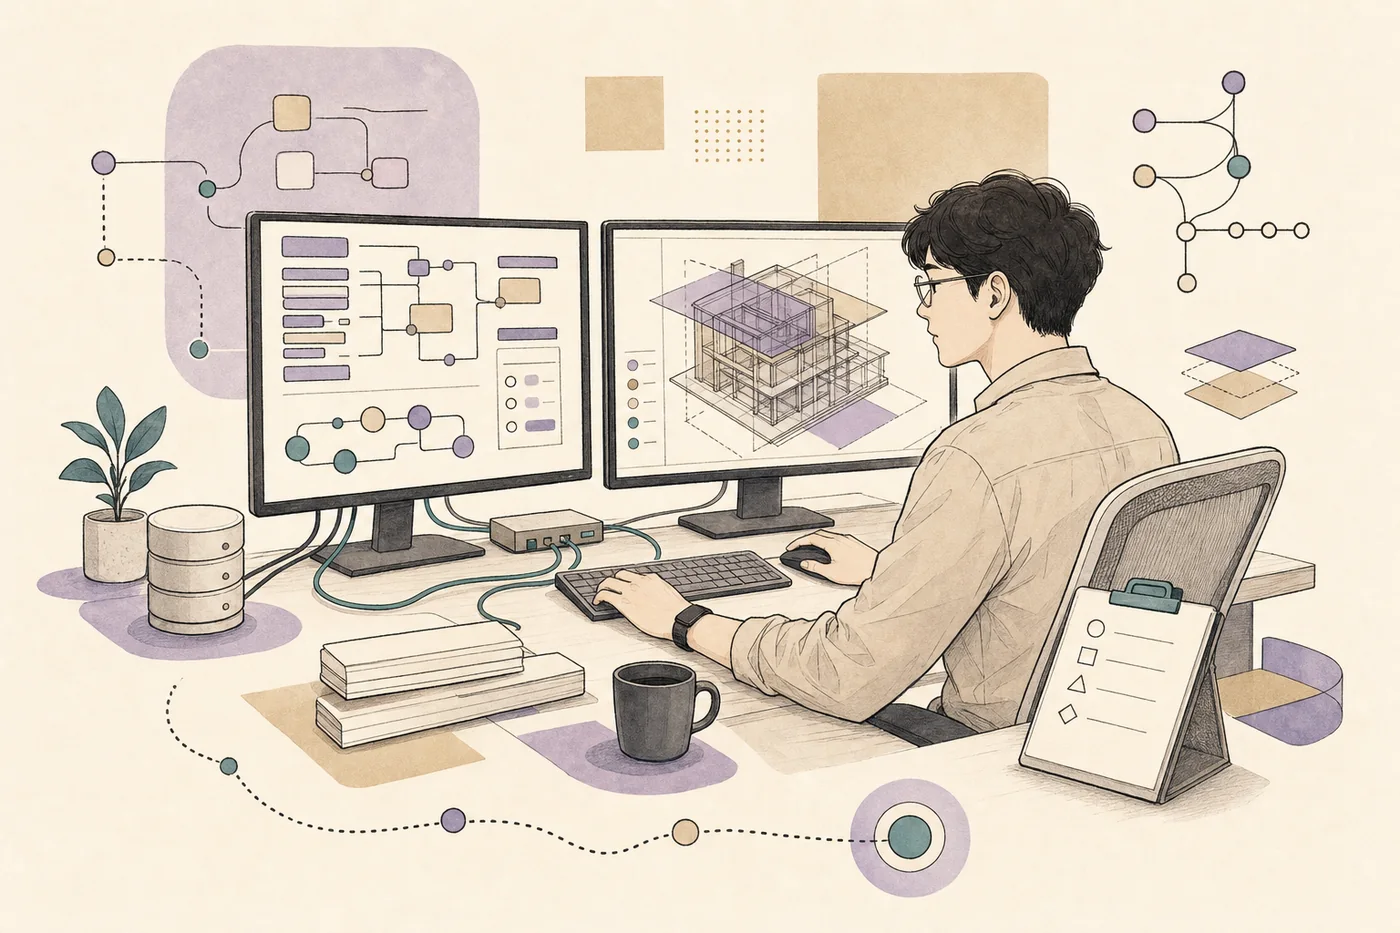
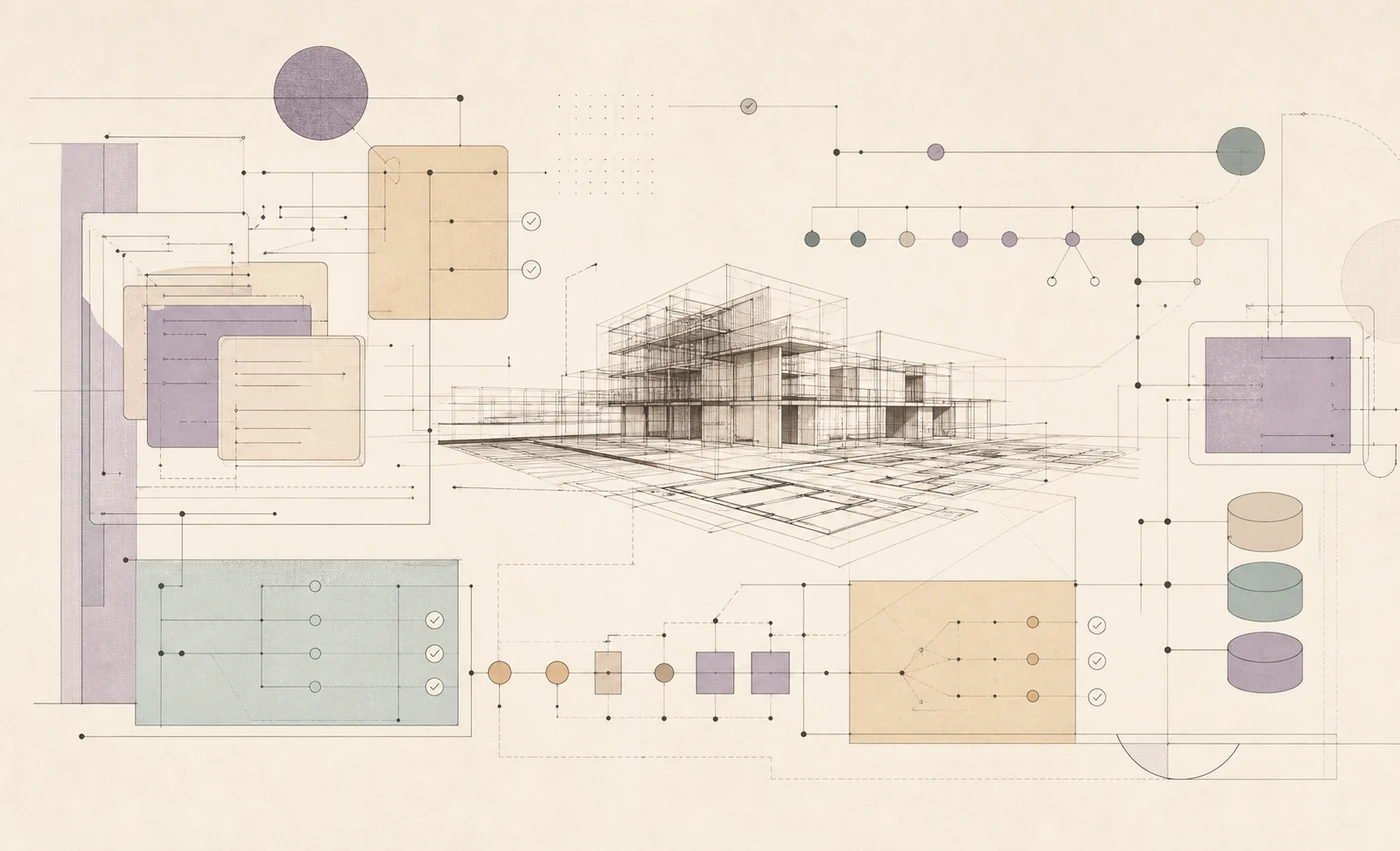
Replace cringe hero with abstract systems image

diff --git a/src/components/PortfolioDoodle.tsx b/src/components/PortfolioDoodle.tsx
@@ -5,7 +5,7 @@ export function PortfolioDoodle() {
       src="/assets/portfolio-hero-gpt.webp"
       alt="운영 웹, API 흐름, 3D/BIM 뷰어를 다루는 개발자 일러스트"
       width="1400"
-      height="933"
+      height="851"
       loading="eager"
       decoding="async"
       fetchPriority="high"

diff --git a/src/styles.css b/src/styles.css
@@ -158,7 +158,7 @@ main[data-app="loop-dog-lab"]::before {
   margin: clamp(16px, 3.2vw, 42px) auto 0;
 }
 .portfolio-generated-image {
-  aspect-ratio: 1400 / 933;
+  aspect-ratio: 1400 / 851;
   object-fit: contain;
   border-radius: 12px;
   filter: drop-shadow(0 20px 34px rgba(96, 66, 63, 0.14));

diff --git a/DESIGN.md b/DESIGN.md
@@ -25,7 +25,7 @@ The user rejected the dark Magic UI pass because it was not readable. The approv
 - readable Pretendard typography;
 - dark brown ink color;
 - soft lavender/sand accent palette;
-- large GPT-generated hero illustration at `public/assets/portfolio-hero-gpt.webp`;
+- large GPT-generated abstract systems/BIM blueprint hero at `public/assets/portfolio-hero-gpt.webp`;
 - rounded lavender intro card;
 - simple uppercase nav;
 - generous spacing and low visual noise.
@@ -37,7 +37,7 @@ Reference traits to preserve:
 - minimal top navigation with round pills;
 - cream/off-white surfaces;
 - thick brown outlines on key cards;
-- polished editorial illustration, not particle/aurora/glow effects.
+- polished editorial abstract systems illustration, not people, mascots, particle/aurora/glow effects, or developer-at-laptop clichés.
 
 ## Avoid
 
@@ -54,7 +54,7 @@ Reference traits to preserve:
 
 1. Top nav with USY mark, centered links, small rounded action pills.
 2. Hero split:
-   - left: GPT-generated developer/workflow/BIM hero illustration;
+   - left: GPT-generated no-person systems/workflow/BIM blueprint hero illustration;
    - right: lavender introduction card with resume-grounded copy.
 3. Four source-grounded stats.
 4. Four capability cards with a selected detail panel.

diff --git a/VERIFY.md b/VERIFY.md
@@ -46,9 +46,10 @@ First screen should read as:
 - Pretendard Korean typography that is readable at first glance;
 - deeper operational copy, not sentimental warmth/어린왕자-style prose;
 - warm cream paper, brown ink, lavender/sand accents;
-- large GPT-generated portfolio hero image at `public/assets/portfolio-hero-gpt.webp`;
+- large GPT-generated abstract systems/BIM blueprint hero image at `public/assets/portfolio-hero-gpt.webp`;
 - strong Korean full-stack developer introduction;
 - no dark particle/glow-heavy Magic UI clutter;
 - no mascot-led identity;
+- no cringe developer-at-laptop character illustration;
 - no public design-process phrases;
 - no private resume data.

diff --git a/README.md b/README.md
@@ -35,7 +35,7 @@ The current version is a clean readable illustrated portfolio:
 - warm paper background;
 - dark brown ink;
 - lavender/sand accents;
-- GPT-generated hero illustration stored at `public/assets/portfolio-hero-gpt.webp`;
+- GPT-generated abstract systems/BIM blueprint hero illustration stored at `public/assets/portfolio-hero-gpt.webp`;
 - thick outlined rounded intro card;
 - simple uppercase nav and round pills;
 - generous spacing, no glow-heavy clutter.